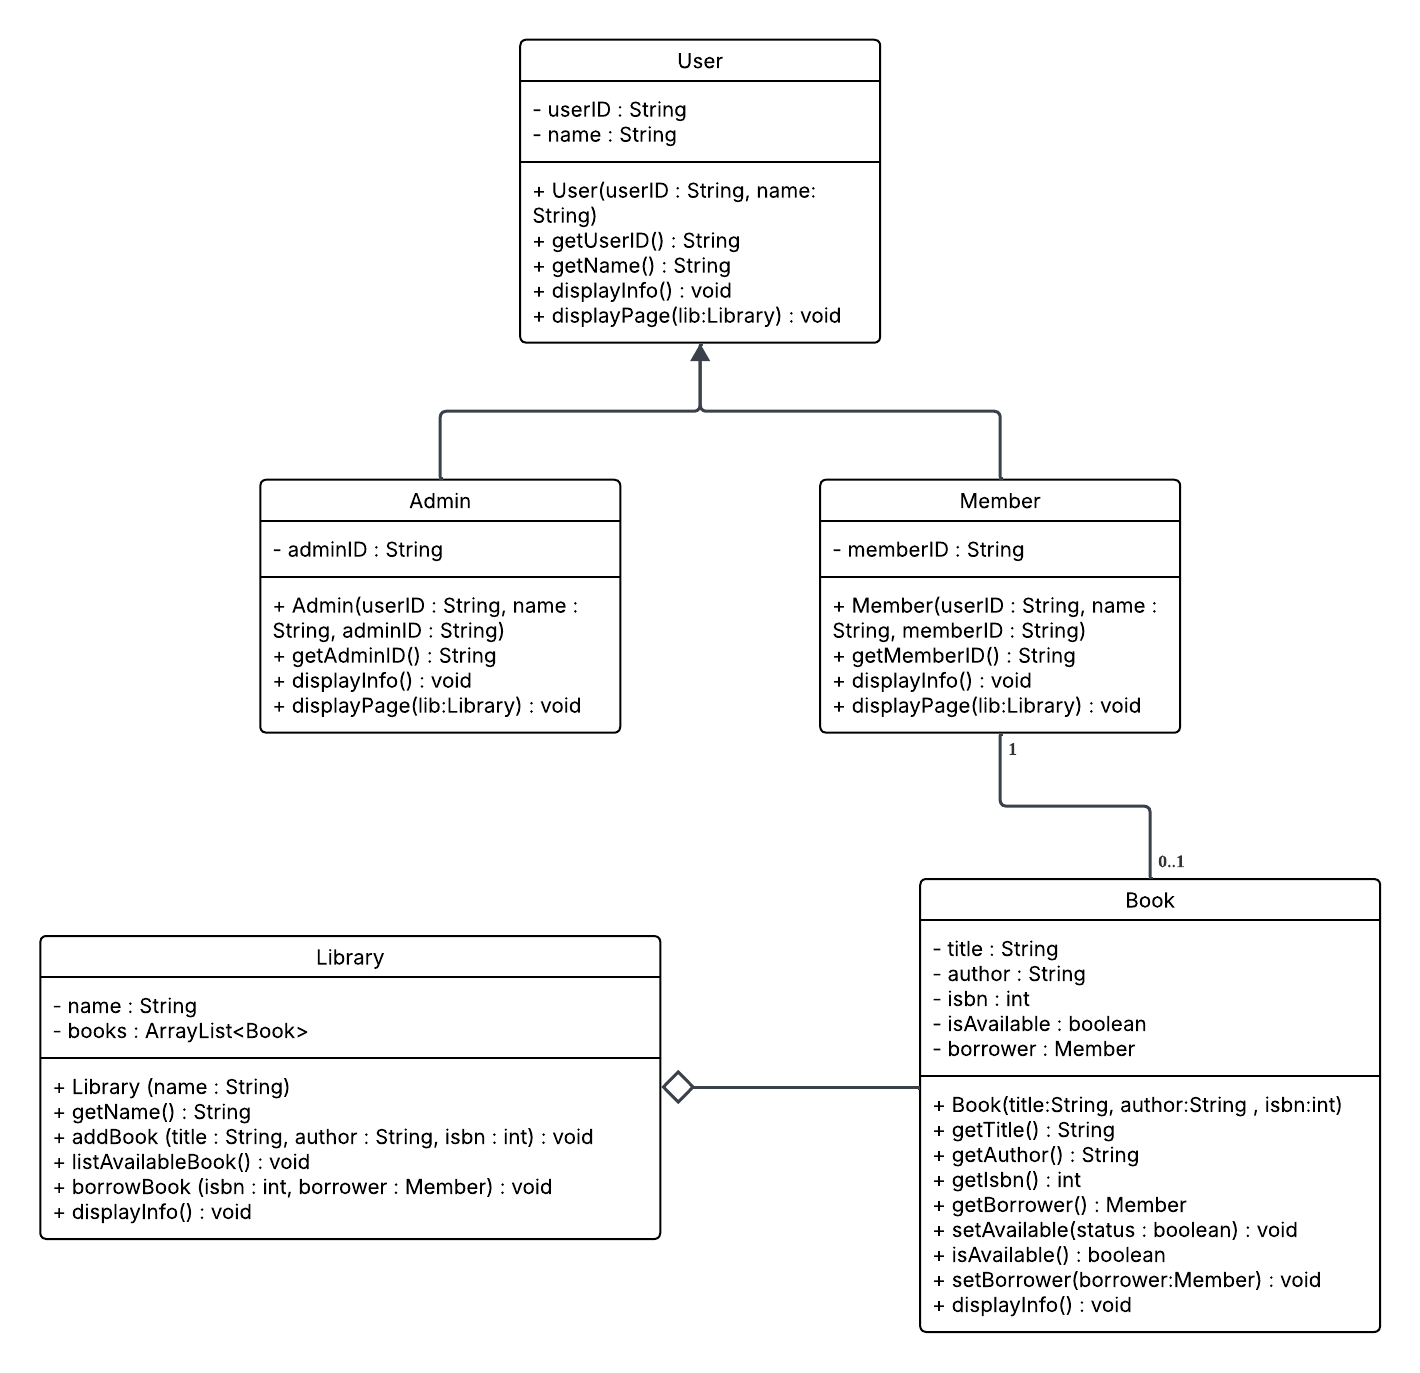
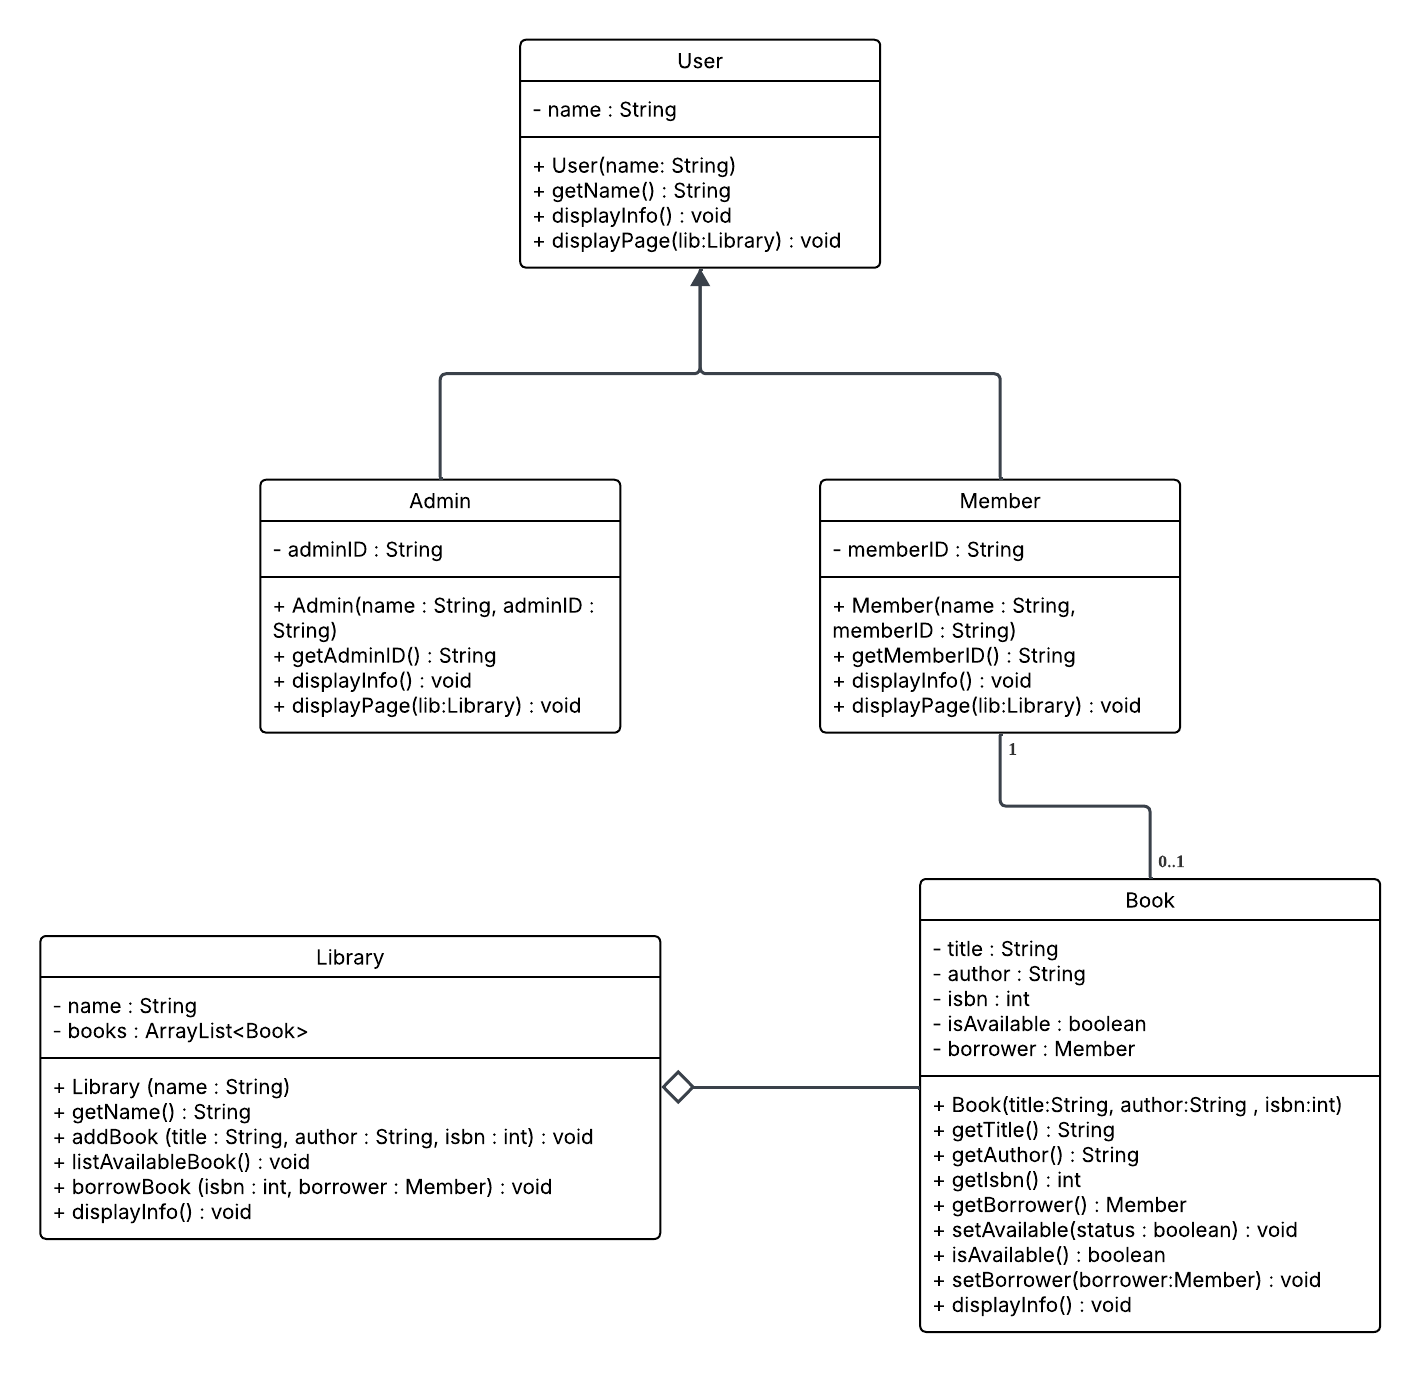
update Library System
remove userID, fix UML Diagran

diff --git a/LibrarySystem.java b/LibrarySystem.java
@@ -63,16 +63,10 @@ class Book {
 
 // Superclass User
 class User {
-    private String userID;
     private String name;
 
-    User(String userID, String name) {
-        this.userID = userID;
+    User( String name) {
         this.name = name;
-    }
-
-    public String getUserID() {
-        return userID;
     }
 
     public String getName() {
@@ -82,7 +76,6 @@ class User {
     // Provides a default implementation. Subclasses can override this method
     public void displayInfo() {
         System.out.println("\n---User Information---");
-        System.out.println("User ID: " + userID);
         System.out.println("Name: " + name);
     }
 
@@ -96,8 +89,8 @@ class Admin extends User {
     int choice;
     private String adminID;
 
-    Admin(String userID, String name, String adminID) {
-        super(userID, name);
+    Admin(String name, String adminID) {
+        super( name);
         this.adminID = adminID;
     }
 
@@ -172,8 +165,8 @@ class Member extends User {
     int choice;
     private String memberID;
 
-    Member(String userID, String name, String memberID) {
-        super(userID, name);
+    Member(String name, String memberID) {
+        super(name);
         this.memberID = memberID;
     }
 
@@ -348,9 +341,9 @@ public class LibrarySystem {
             User currentUser;
 
             if (user == 1) {
-                currentUser = new Admin("A001", "Alice", "Admin01");
+                currentUser = new Admin("Alice", "A0001");
             } else {
-                currentUser = new Member("M001", "Bob", "Member01");
+                currentUser = new Member( "Bob", "M0001");
             }
 
             currentUser.displayPage(lib); // Dynamically calls the correct method
